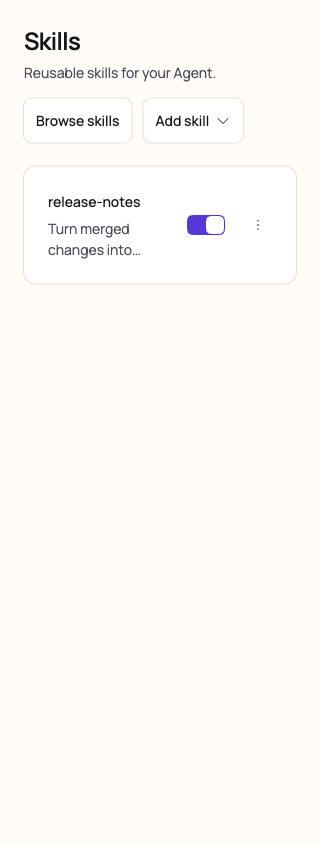
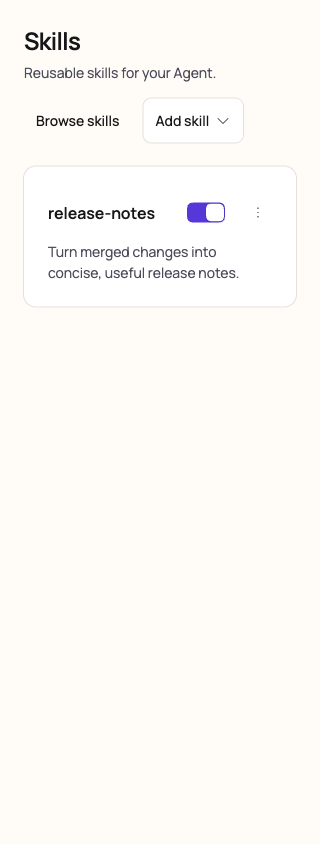
feat(web): refine Skill list hierarchy and mobile layout

Changed region(s): [[0.1562, 0.2156, 0.75, 0.3389]]

diff --git a/apps/web/src/features/skills/skill-row.tsx b/apps/web/src/features/skills/skill-row.tsx
@@ -1,6 +1,6 @@
 import type { Skill } from "@opentag/shared/browser";
 import { DownloadSimple, Trash } from "@phosphor-icons/react";
-import { useState } from "react";
+import { useLayoutEffect, useRef, useState } from "react";
 import { ApiError } from "../../api.js";
 import * as m from "../../paraglide/messages.js";
 import { Banner, Button, DropdownMenu, Icon, Switch, Text, Tooltip } from "../../ui/design-system.js";
@@ -31,6 +31,29 @@ export function SkillRow({
   // Agent can never be written through a mutation that belongs to another.
   const update = useUpdateSkill();
   const [error, setError] = useState<string>();
+  const descriptionRef = useRef<HTMLParagraphElement>(null);
+  const [descriptionTruncated, setDescriptionTruncated] = useState(false);
+
+  useLayoutEffect(() => {
+    const description = descriptionRef.current;
+    if (!description) return;
+    if (!skill.description) {
+      setDescriptionTruncated(false);
+      return;
+    }
+    const measure = () =>
+      setDescriptionTruncated(
+        description.scrollWidth > description.clientWidth || description.scrollHeight > description.clientHeight,
+      );
+    measure();
+    const observer = new ResizeObserver(measure);
+    observer.observe(description);
+    document.fonts?.addEventListener("loadingdone", measure);
+    return () => {
+      observer.disconnect();
+      document.fonts?.removeEventListener("loadingdone", measure);
+    };
+  }, [skill.description]);
 
   const toggle = async (enabled: boolean) => {
     if (update.isPending) return;
@@ -46,6 +69,7 @@ export function SkillRow({
     <li className="skill-row min-w-0 p-4" data-ui="skill-row">
       <Tooltip
         content={skill.description}
+        disabled={!descriptionTruncated}
         render={<div className="skill-row-content min-w-0 rounded-md hover:bg-kumo-tint" />}
       >
         <Text as="h2" title={skill.name} variant="heading" DANGEROUS_className="min-w-0 truncate">
@@ -59,7 +83,7 @@ export function SkillRow({
             <span className="truncate">{skill.name}</span>
           </Button>
         </Text>
-        <p className="skill-row-description ui-text text-kumo-subtle" data-text-size="sm">
+        <p className="skill-row-description ui-text text-kumo-subtle" data-text-size="sm" ref={descriptionRef}>
           {skill.description}
         </p>
       </Tooltip>

diff --git a/apps/web/src/features/skills/skills.css b/apps/web/src/features/skills/skills.css
@@ -22,6 +22,9 @@
   height: auto;
   min-height: 0;
   padding: 0;
+  font-size: 1rem;
+  font-weight: 600;
+  line-height: 1.5;
   border-radius: 0;
   background: transparent;
   outline: none;
@@ -40,6 +43,11 @@
 .skill-row-controls {
   grid-column: 2;
   grid-row: 1;
+  align-self: start;
+  margin-top: 0.25rem;
+  position: relative;
+  /* Keep mobile controls above the stretched details target. */
+  z-index: 1;
 }
 .skill-row-description {
   min-width: 0;
@@ -218,10 +226,23 @@
   }
 }
 @container content (max-width: 40rem) {
-  .skill-row {
-    column-gap: 1rem;
+  /* Share tracks so the first row reserves controls, while the description uses the full width. */
+  .skill-row-content {
+    grid-column: 1 / -1;
+    grid-row: 1;
+    grid-template-columns: subgrid;
+    grid-template-rows: 2.75rem auto;
+  }
+  .skill-row-content > h2 {
+    grid-column: 1;
+    align-self: center;
+  }
+  .skill-row-controls {
+    height: 2.75rem;
+    margin-top: 0.5rem;
   }
   .skill-row-description {
+    grid-column: 1 / -1;
     display: -webkit-box;
     -webkit-box-orient: vertical;
     -webkit-line-clamp: 2;

diff --git a/apps/web/src/features/skills/skills-page.tsx b/apps/web/src/features/skills/skills-page.tsx
@@ -204,7 +204,7 @@ function SkillsPageBody({ agentId }: { agentId: string }) {
   );
 
   const presetAction = (
-    <Button disabled={!storageAvailable} onClick={openPresetCatalog} variant="secondary">
+    <Button disabled={!storageAvailable} onClick={openPresetCatalog} variant="ghost">
       {m.skills_preset_button()}
     </Button>
   );

diff --git a/apps/web/docs/ui/skill-reader/README.md b/apps/web/docs/ui/skill-reader/README.md
@@ -14,6 +14,7 @@ The server contract is separately covered with authenticated route/service tests
 | Larger details entry, desktop hover | 1440 × 1000 | [Entry](content-area-desktop-hover.png) |
 | Larger details entry, mobile | 390 × 844 | [Mobile entry](content-area-390.png) |
 | Larger details entry, narrow mobile | 320 × 844 | [Narrow entry](content-area-320.png) |
+| Clipped description, mobile tooltip | 320 × 844 | [Tooltip](content-area-clipped-tooltip.png) |
 | Desktop Markdown and file navigation | 1440 × 1000 | [Desktop](reader-1440.png) |
 | Tablet | 768 × 1000 | [Tablet](reader-768.png) |
 | Mobile file selector | 390 × 844 | [Mobile](reader-390.png) |
@@ -27,6 +28,11 @@ The server contract is separately covered with authenticated route/service tests
 - The name, description and content whitespace open details through one native button. Real coordinate clicks on the
   description and the far corner of the content area passed; the switch and More menu operated without opening details.
   Enter and Space opened the reader, Escape restored trigger focus, and 320px/390px entries remained within the viewport.
+- Names render at 16px/600, descriptions at 14px. Controls align with the name at 1440px/768px/390px/320px and in a
+  narrow desktop content container. Mobile descriptions span the full content width below the name and controls.
+- Description tooltips appear only when the actual text is clipped. A long description showed a tooltip at 320px;
+  widening the viewport to 1440px removed it while hovered, and an untruncated description stayed quiet.
+  ResizeObserver and font-loading events keep the measurement current. Browse uses a ghost action beside Add.
 
 - At all four viewport widths, axe reported no violations; document width stayed within the viewport and the dialog
   bounds remained fully visible. Narrow viewports use the file selector rather than a cramped sidebar.

diff --git a/apps/web/docs/ui/skill-reader/README.zh-CN.md b/apps/web/docs/ui/skill-reader/README.zh-CN.md
@@ -15,6 +15,7 @@ PostgreSQL 和存储服务的端到端测试。后端另有认证路由、服务
 | 扩大的详情入口，桌面悬停 | 1440 × 1000 | [入口](content-area-desktop-hover.png) |
 | 扩大的详情入口，手机 | 390 × 844 | [手机入口](content-area-390.png) |
 | 扩大的详情入口，窄屏手机 | 320 × 844 | [窄屏入口](content-area-320.png) |
+| 描述截断，手机提示 | 320 × 844 | [提示](content-area-clipped-tooltip.png) |
 | 桌面 Markdown 和文件导航 | 1440 × 1000 | [桌面](reader-1440.png) |
 | 平板 | 768 × 1000 | [平板](reader-768.png) |
 | 手机文件选择器 | 390 × 844 | [手机](reader-390.png) |
@@ -27,6 +28,10 @@ PostgreSQL 和存储服务的端到端测试。后端另有认证路由、服务
 
 - 名称、描述和内容区留白通过同一个原生按钮打开详情。实际坐标点击描述及内容区远端留白均通过；开关和更多菜单
   独立工作，不会打开详情。Enter 和空格打开阅读器，Escape 返回入口焦点；320px 和 390px 入口均无横向溢出。
+- 名称为 16px/600，描述为 14px。在 1440px、768px、390px、320px 及桌面窄内容区中，操作与名称对齐；手机描述在
+  名称和操作下方占满内容宽度。
+- 描述提示仅在文本实际截断时出现。长描述在 320px 下显示提示，悬停时扩宽至 1440px 后自动消失；完整描述不弹提示。
+  ResizeObserver 和字体加载事件保持测量准确。「浏览技能」使用轻量按钮，与「添加技能」形成主次。
 
 - 四种视口宽度的 axe 检查均无违规；页面没有横向溢出，弹窗完全位于视口内。手机使用文件选择器。
 - 阅读完整 Markdown、Frontmatter 和 Source，访问首屏之后的正文。单文件阅读器中，聚焦正文后 PageDown 能滚动。

diff --git a/docs/design/skill-details-reader.md b/docs/design/skill-details-reader.md
@@ -5,8 +5,13 @@
 A Skill's summary cannot replace its instructions. Click the installed Skill's content area—name, description or
 surrounding whitespace—to read the complete `SKILL.md` and switch to supporting files without leaving the management
 page. The reader integrates with the Skills management layout merged in PR #820. A stretched native name button owns
-this larger hit area; the switch and More menu sit outside it and retain their independent management actions.
+this larger hit area; the switch and More menu remain separate siblings and retain their independent management actions.
 The content area has a subtle hover fill and a visible keyboard focus outline, without an extra details action.
+Names use 16px semibold text and descriptions use 14px regular text. Controls align with the name; in narrow content
+containers the description spans the full width below the first row. The stretched trigger extends across that mobile
+content region, with the independent control group layered above it. Description tooltips are enabled only for actual
+horizontal overflow or two-line clamping, measured on text changes, element resizing and font loading. Browse remains
+available as a lighter ghost action beside Add.
 
 ## Reading experience
 

diff --git a/docs/zh-CN/design/skill-details-reader.md b/docs/zh-CN/design/skill-details-reader.md
@@ -6,7 +6,10 @@
 
 Skill 摘要不能代替完整指令。点击已安装 Skill 的内容区，包括名称、描述及周围留白，即可阅读 `SKILL.md` 全文并切换
 包内相关文件，无须离开管理页。阅读器衔接 PR #820 已合入的管理页布局，以扩展原生名称按钮的点击范围承载详情入口；
-开关和更多菜单位于此区域之外，继续独立提供管理操作。内容区仅增加轻微悬停底色和清晰键盘焦点边框，不增加详情按钮。
+开关和更多菜单保持独立的同级元素，继续提供管理操作。内容区仅增加轻微悬停底色和清晰键盘焦点边框，不增加详情按钮。
+名称使用 16px 半粗体，描述使用 14px 常规字重。操作与名称对齐；窄内容区中的描述在第一行下方占满整行。
+扩展按钮覆盖手机内容区域，独立操作组位于其上层。描述提示仅在实际横向溢出或超过两行时启用，在文本变化、
+元素尺寸变化和字体加载后重新测量。「浏览技能」采用比「添加技能」更轻的按钮样式。
 
 ## 阅读体验
 
